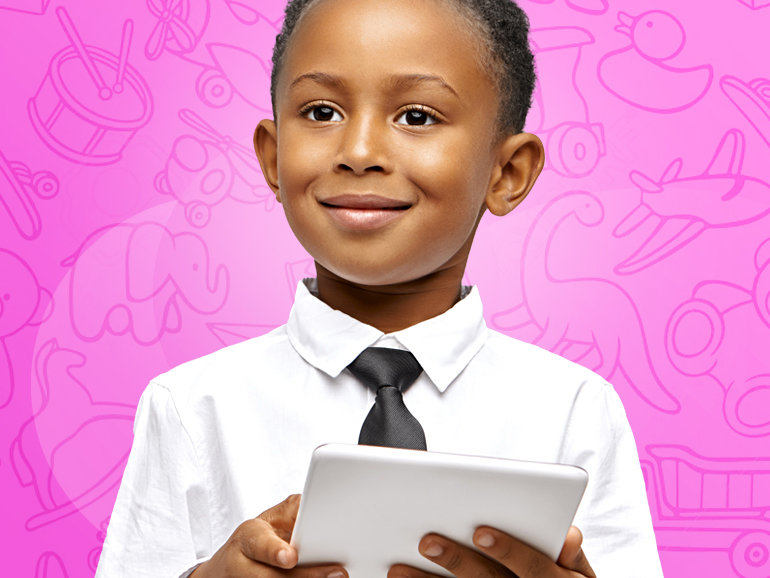
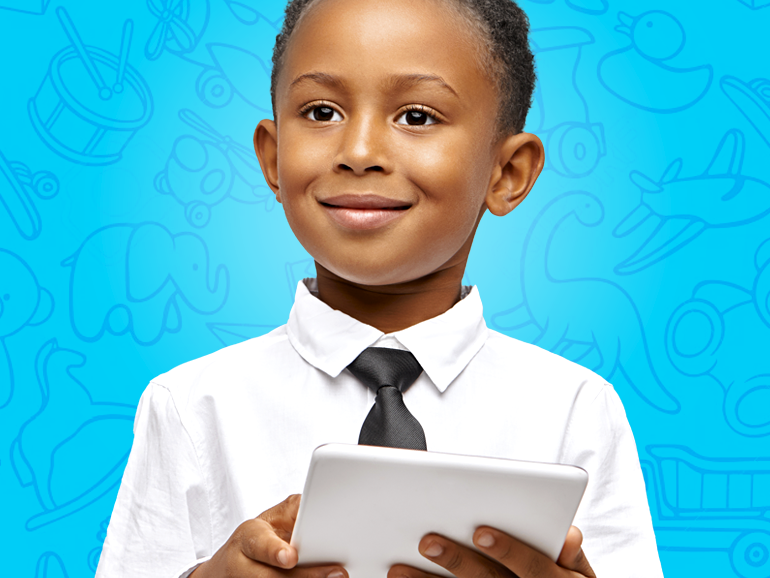
Cambios

diff --git a/templates/index.html b/templates/index.html
@@ -79,7 +79,7 @@
 <div id="carouselExampleControls" class="carousel slide mt-100" data-ride="carousel">
   <div class="carousel-inner carousel-mt">
     <div class="carousel-item active  img-carousel">
-      <img src="{% static 'assets/img/cositas.jpeg' %}" class="d-block w-100" alt="...">
+      <img src="{% static 'assets/img/cositas.png' %}" class="d-block w-100" alt="...">
     </div> 
     <!-- <div class="carousel-item ">
       <img src="{% static 'assets/img/baner.jpg' %}" class="d-block w-100" alt="...">
